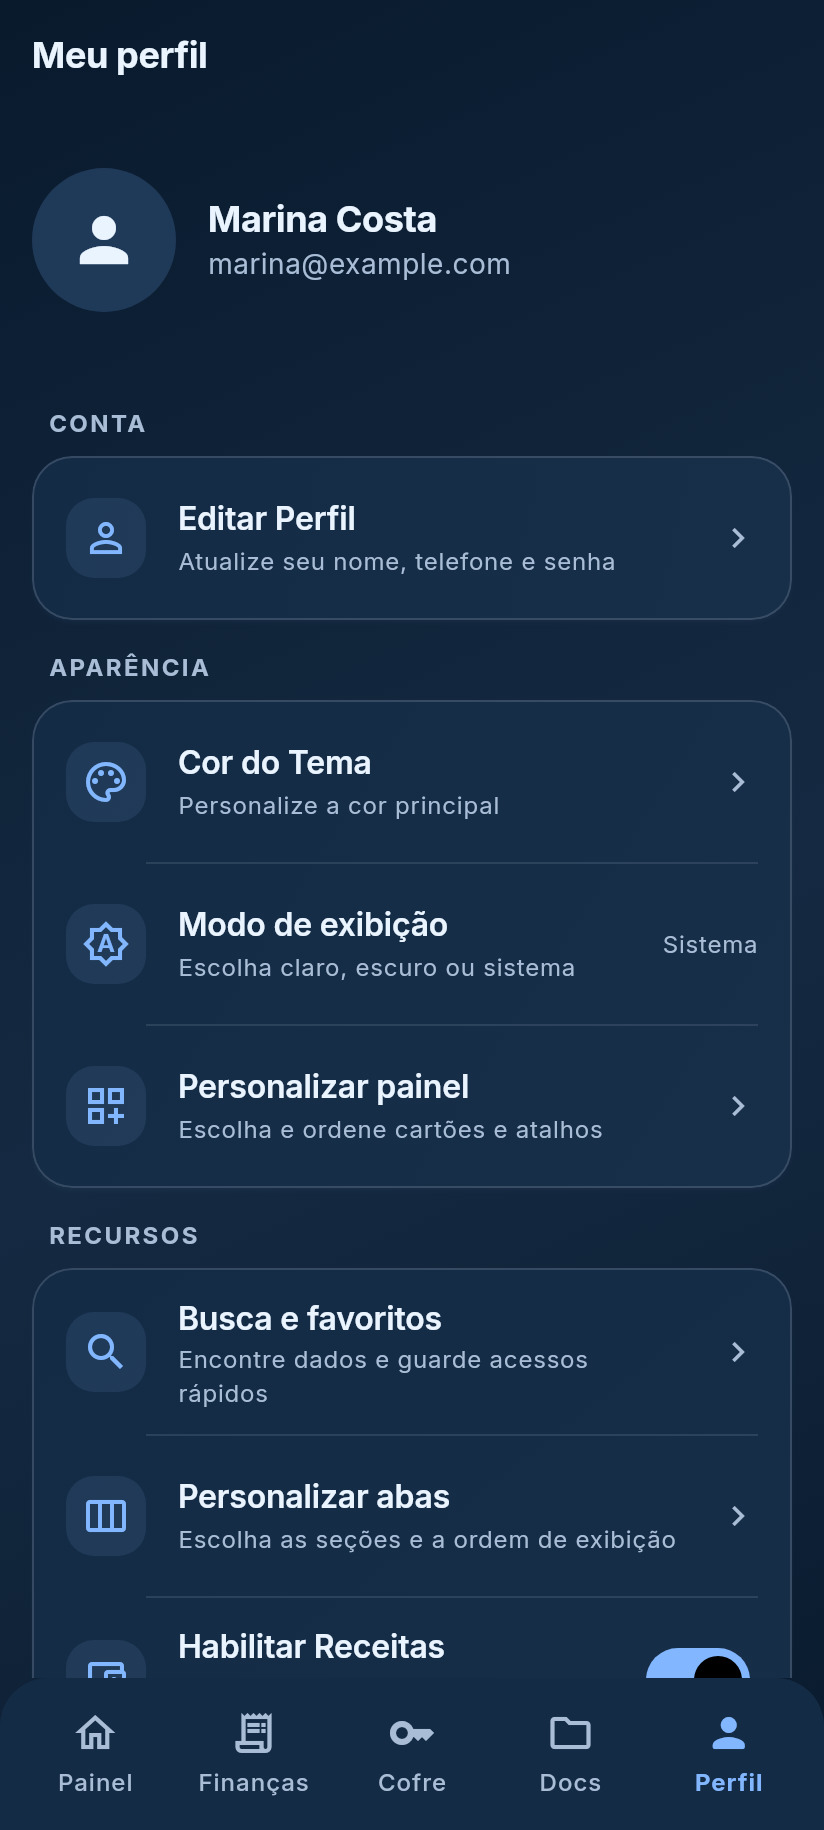
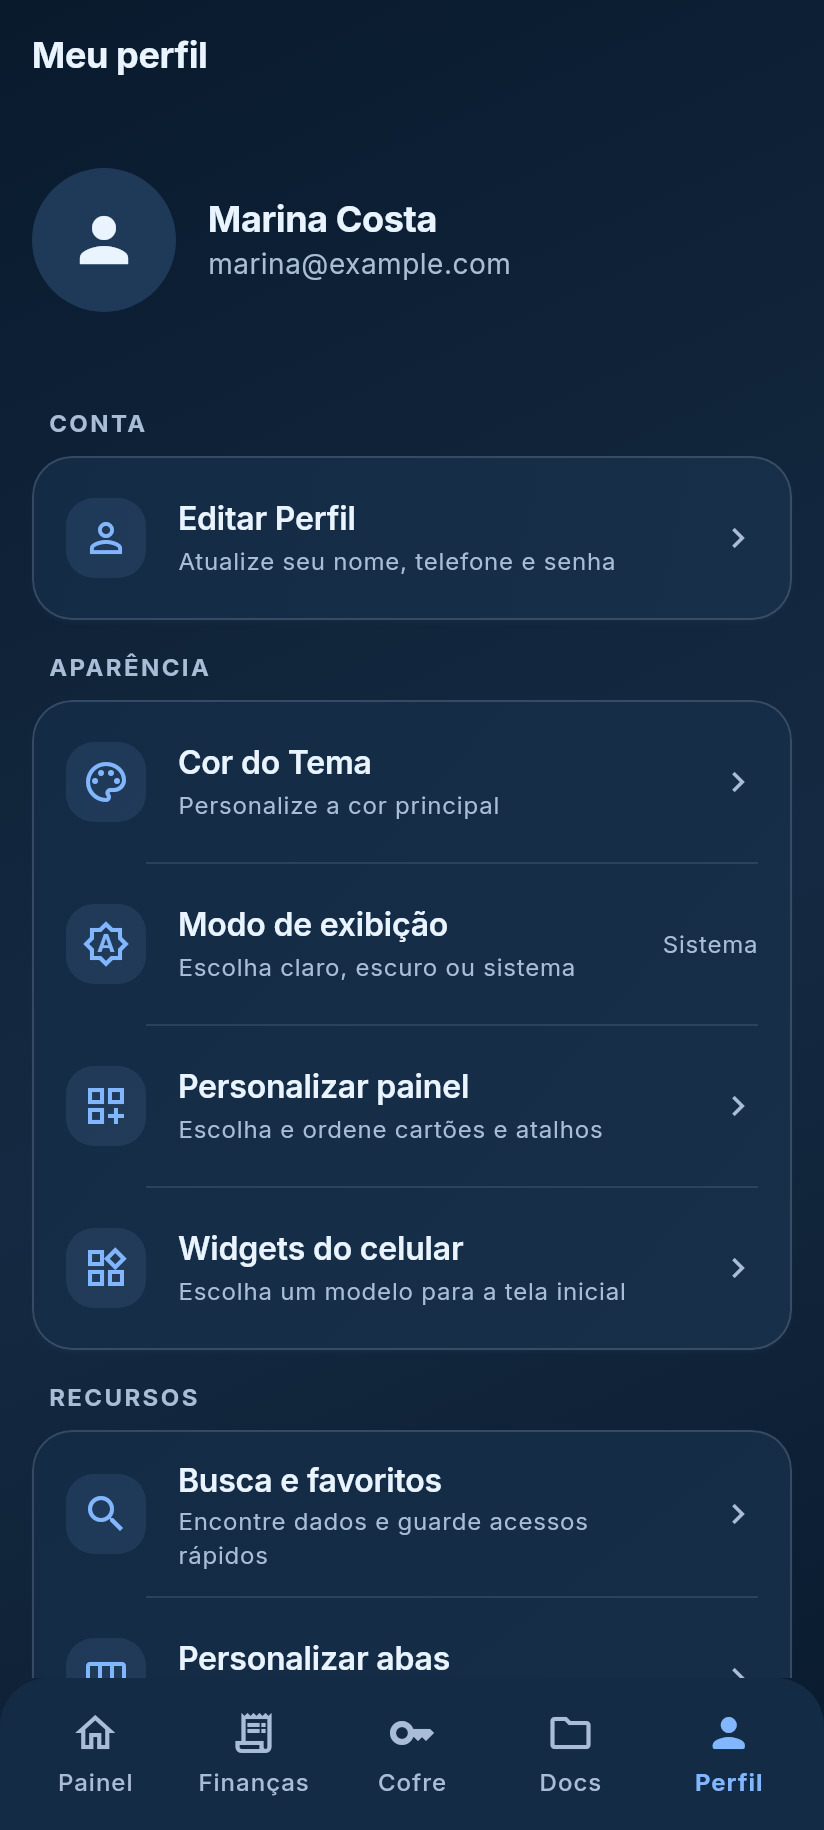
docs: showcase themed Android widgets and offline summaries

diff --git a/test/screenshots/readme_screenshots_test.dart b/test/screenshots/readme_screenshots_test.dart
@@ -29,6 +29,7 @@ import 'package:key_budget/features/goals/model/savings_goal.dart';
 import 'package:key_budget/features/goals/repository/savings_goal_repository.dart';
 import 'package:key_budget/features/goals/view/savings_goals_screen.dart';
 import 'package:key_budget/features/user/view/user_screen.dart';
+import 'package:key_budget/features/user/view/home_widgets_screen.dart';
 
 import 'demo_data.dart';
 
@@ -88,6 +89,7 @@ void main() {
     'analysis-distribution': (const AnalysisScreen(), AppDestination.dashboard),
     'goals': (const SavingsGoalsScreen(), AppDestination.profile),
     'profile': (const UserScreen(), AppDestination.profile),
+    'home-widgets': (const HomeWidgetsScreen(), AppDestination.profile),
   };
   for (final dark in [false, true]) {
     for (final entry in screens.entries) {

diff --git a/tool/update_widget_images.py b/tool/update_widget_images.py
@@ -1,0 +1,102 @@
+"""Capture actual Android RemoteViews with fictional fixtures for the README.
+
+Run against a disposable emulator: uv run --with pillow python
+  tool/update_widget_images.py --serial emulator-5554
+"""
+
+import argparse
+import os
+import shutil
+import subprocess
+from pathlib import Path
+
+from PIL import Image
+
+ROOT = Path(__file__).resolve().parents[1]
+PACKAGE = "com.vinicius.key_budget"
+
+
+def main():
+    parser = argparse.ArgumentParser(description=__doc__)
+    parser.add_argument(
+        "--serial", required=True, help="Disposable Android emulator serial"
+    )
+    args = parser.parse_args()
+    sdk = Path(os.environ.get("ANDROID_HOME", str(Path.home() / "Android/Sdk")))
+    adb = shutil.which("adb") or str(sdk / "platform-tools/adb")
+    device = [adb, "-s", args.serial]
+    qemu = subprocess.check_output(
+        device + ["shell", "getprop", "ro.kernel.qemu"], text=True
+    ).strip()
+    if qemu != "1":
+        parser.error(
+            "Use a disposable emulator; this command installs the debug application."
+        )
+    subprocess.run(
+        [
+            "./gradlew",
+            ":app:assembleDebug",
+            ":app:assembleDebugAndroidTest",
+            "--max-workers=1",
+        ],
+        cwd=ROOT / "android",
+        check=True,
+    )
+    for apk in ["debug/app-debug.apk", "androidTest/debug/app-debug-androidTest.apk"]:
+        subprocess.run(
+            device + ["install", "-r", str(ROOT / "build/app/outputs/apk" / apk)],
+            check=True,
+        )
+    result = subprocess.check_output(
+        device
+        + [
+            "shell",
+            "am",
+            "instrument",
+            "-w",
+            "-e",
+            "class",
+            f"{PACKAGE}.WidgetRenderingTest",
+            "-e",
+            "captureWidgets",
+            "true",
+            f"{PACKAGE}.test/androidx.test.runner.AndroidJUnitRunner",
+        ],
+        text=True,
+    )
+    print(result)
+    if (
+        "OK (" not in result
+        or "FAILURES" in result
+        or "INSTRUMENTATION_FAILED" in result
+    ):
+        raise RuntimeError(
+            "Native widget rendering tests failed; no README images were replaced."
+        )
+    output = ROOT / "build/widget-captures"
+    output.mkdir(parents=True, exist_ok=True)
+    for mode in ["light", "dark"]:
+        source = output / f"widgets-{mode}.png"
+        source.write_bytes(
+            subprocess.check_output(
+                device
+                + [
+                    "exec-out",
+                    "run-as",
+                    PACKAGE,
+                    "cat",
+                    f"files/widget-captures/widgets-{mode}.png",
+                ]
+            )
+        )
+        with Image.open(source) as capture:
+            capture.convert("RGB").save(
+                ROOT / f"docs/images/widgets-{mode}.jpg",
+                quality=92,
+                optimize=True,
+                subsampling=0,
+            )
+
+
+if __name__ == "__main__":
+    main()

diff --git a/tool/update_readme_images.py b/tool/update_readme_images.py
@@ -21,6 +21,7 @@ NAMES = {
     'profile': 'user',
     'dashboard-charts': 'dashboard-charts',
     'customization': 'customization',
+    'home-widgets': 'home-widgets',
 }
 
 

diff --git a/docs/engineering/widgets.md b/docs/engineering/widgets.md
@@ -8,6 +8,8 @@ Os gráficos de gastos diários e dias da semana usam somente despesas realizada
 
 ## Tela inicial do Android
 
+Em **Perfil → Aparência → Widgets do celular**, conheça os modelos e solicite a inclusão. O Android pede a confirmação final; se o launcher não permitir esse atalho, a tela orienta a inclusão manual.
+
 Toque e segure um espaço vazio na tela inicial → **Widgets → KeyBudget**. Escolha um dos cinco modelos e arraste para adicionar. Para redimensionar, toque e segure o widget já adicionado. O número de células disponível depende do launcher.
 
 | Modelo | Tamanho sugerido | Conteúdo |
@@ -18,18 +20,28 @@ Toque e segure um espaço vazio na tela inicial → **Widgets → KeyBudget**. E
 | Próximos gastos | 3 × 2 | Total cadastrado para os próximos sete dias |
 | Nova despesa | 1 × 1 | Atalho para cadastrar, respeitando autenticação e bloqueio |
 
-Os valores começam ocultos. O olho revela temporariamente; o próximo toque oculta. O Android pode atrasar o alarme de ocultação quando alarmes exatos não estão disponíveis. Dados de outra conta, de um dia anterior ou de sessão encerrada nunca são revelados pela política de exibição. Ao sair, o conteúdo salvo é limpo; gravações e trocas de sessão são serializadas.
+Os valores começam ocultos. O olho revela temporariamente; o próximo toque oculta. O Android pode atrasar o alarme de ocultação quando alarmes exatos não estão disponíveis. Dados de outra conta ou de sessão encerrada nunca são revelados pela política de exibição. Ao sair, o conteúdo salvo é limpo; gravações e trocas de sessão são serializadas.
 
-Os widgets acompanham o modo claro/escuro do sistema. São atualizados pelos lançamentos carregados no aplicativo e solicitam atualização de apresentação periodicamente; não fazem consultas ao Firebase em segundo plano. Se a fotografia dos dados estiver desatualizada, mostram **Atualize no app**. Os modelos nativos desta implementação são para Android.
+Os widgets acompanham a cor e o modo de exibição do perfil (claro, escuro ou sistema). Duas paletas opacas são calculadas com as regras de contraste do aplicativo e persistidas junto à sessão; cada texto tem contraste mínimo de 4,5:1. Trocar a cor atualiza todos os modelos instalados, sem substituir os dados financeiros. Eventos de perfil repetidos não provocam atualizações redundantes; falhas podem ser repetidas na próxima sincronização. Ao sair, a aparência salva também é limpa.
 
-A implementação conserva o receiver original para preservar widgets já instalados. Os demais compartilham renderização e política de privacidade, com metadados e layouts próprios. Referência: [layouts flexíveis de widgets Android](https://developer.android.com/develop/ui/views/appwidgets/layouts).
+No modo sistema, Android 12 ou superior reaplica as cores claro/escuro automaticamente; versões anteriores aplicam o modo atual na próxima atualização do widget. No Android 15 ou superior, também publicamos prévias com o tema no seletor, sujeitas à cota de atualização do launcher; versões anteriores usam a prévia estática. Os fundos são formas nativas com cor sólida, preservando os cantos transparentes em todas as versões suportadas.
+
+A sincronização dos lançamentos salva um resumo por dia (valores em centavos e contagem), sem nomes, descrições ou IDs de despesas. Isso acontece independentemente de abrir o painel e inclui edições, exclusões e lançamentos recebidos pelo app. Filtros e pesquisas não alteram o resumo. Um cache vazio ainda não confirmado pelo servidor e falhas de conexão não apagam o último conjunto válido.
+
+O Android recalcula o mês, o saldo e os próximos sete dias usando esses dados persistidos, inclusive na virada do dia, mês e ano. O widget continua funcionando com o aplicativo fechado, sem exigir uma abertura diária. Se o app não sincronizou hoje, a legenda informa **Dados do app · dd/MM**. As atualizações periódicas dependem do agendamento do Android; tocar no olho também recalcula os valores. Não há consultas ao Firebase em segundo plano: alterações feitas em outro aparelho e recorrências ainda não geradas dependem da próxima sincronização do app. Sem dados válidos ou com um resumo de versão antiga, **Atualize no app** orienta a sincronização inicial. Os modelos nativos desta implementação são para Android.
+
+A implementação conserva o receiver original para preservar widgets já instalados. Os demais compartilham renderização e política de privacidade, com metadados e layouts próprios. Referências: [layouts flexíveis de widgets Android](https://developer.android.com/develop/ui/views/appwidgets/layouts), [RemoteViews](https://developer.android.com/reference/android/widget/RemoteViews) e [prévias de widgets](https://developer.android.com/reference/android/appwidget/AppWidgetManager#setWidgetPreview(android.content.ComponentName,int,android.widget.RemoteViews)).
 
 ## Verificação
 
 ```bash
-flutter test test/core/services/home_widget_snapshot_test.dart test/features/dashboard
+flutter test test/features/expenses/expense_widget_sync_test.dart test/core/services/home_widget_appearance_test.dart test/core/services/home_widget_snapshot_test.dart test/features/user/home_widgets_screen_test.dart test/features/dashboard
 cd android
 ./gradlew :app:testDebugUnitTest
+# Com emulador Android conectado:
+./gradlew :app:connectedDebugAndroidTest
 ```
 
 Os testes cobrem precisão monetária, datas, troca de conta, logout, todos os receivers, validade da revelação, migração das preferências, tamanhos salvos e gráficos com texto a 200% em 320 px.
+
+Os testes nativos aplicam as RemoteViews reais dos cinco modelos em duas cores e dois modos, verificando transparência dos cantos, cores, valores e sessão encerrada com fonte ampliada. No Android 15+, também verificam a prévia temática antes da primeira inclusão e garantem que ela não revele valores. As capturas são produzidas por esse mesmo renderer; consulte [como regenerar as imagens](../images/README.md).

diff --git a/docs/images/README.md b/docs/images/README.md
@@ -1,6 +1,6 @@
 # Capturas do KeyBudget
 
-As imagens são renderizadas pelos widgets reais da aplicação com dados fictícios, sem autenticação ou contas reais. São 22 capturas, em temas claro e escuro, incluindo painel, lançamentos, cofres, análises, metas, perfil e personalização.
+As imagens são renderizadas pelos widgets reais da aplicação com dados fictícios, sem autenticação ou contas reais. São 24 capturas do aplicativo, em temas claro e escuro, incluindo painel, lançamentos, cofres, análises, metas, perfil, personalização e seleção de widgets.
 
 ## Regenerar
 
@@ -19,3 +19,15 @@ Se necessário, defina `FLUTTER_BIN` com o caminho do executável Flutter. O scr
 - O teste sem `CAPTURE_README=1` valida as telas sem gravar arquivos.
 
 Não use contas, documentos ou credenciais reais para produzir imagens públicas.
+
+## Widgets Android
+
+`widgets-light.jpg` e `widgets-dark.jpg` mostram os cinco layouts nativos reais com dados fictícios. A galeria é renderizada pelo teste instrumentado `WidgetRenderingTest`, usando as paletas de produção; não depende de login nem lê os dados da conta.
+
+Com um **emulador descartável** iniciado (o comando instala a versão debug):
+
+```bash
+uv run --with pillow python tool/update_widget_images.py --serial emulator-5554
+```
+
+As capturas PNG ficam em `build/widget-captures/`; somente os JPEGs da documentação são versionados. As paletas de teste são verificadas por `home_widget_appearance_test.dart`. Se as regras de cores mudarem, regenere a fixture com `UPDATE_WIDGET_PALETTES=1 flutter test test/core/services/home_widget_appearance_test.dart` antes de capturar novamente.

diff --git a/README.md b/README.md
@@ -84,6 +84,29 @@ Capturas da interface real, com dados fictícios. Em cada par, **tema claro à e
 
 </details>
 
+## Widgets no Android
+
+Adicione pelo **Perfil → Aparência → Widgets do celular** ou pelo seletor de widgets do Android.
+Os cinco modelos acompanham a **cor e o modo de exibição do aplicativo**, com valores ocultos por padrão.
+Usam os lançamentos salvos e recalculam os totais na virada do dia, mesmo com o app fechado; a legenda indica a data dos dados quando necessário.
+
+| Widget | Tamanho sugerido |
+| --- | --- |
+| Gastos compactos | 3 × 1 |
+| Gastos do mês | 2 × 2 |
+| Resumo financeiro | 4 × 3 |
+| Próximos gastos | 3 × 2 |
+| Nova despesa | 1 × 1 |
+
+Renderização real dos widgets no Android, com dados fictícios e tema violeta.
+Os tamanhos podem ser ajustados conforme a tela inicial do celular.
+Veja também a seleção no aplicativo: [claro](docs/images/home-widgets-light.jpg) · [escuro](docs/images/home-widgets-dark.jpg).
+
+<p align="center">
+  <a href="docs/images/widgets-light.jpg"><img src="docs/images/widgets-light.jpg" width="38%" alt="Cinco widgets Android com gastos, saldo, próximos pagamentos e nova despesa, em violeta claro" /></a>
+  <a href="docs/images/widgets-dark.jpg"><img src="docs/images/widgets-dark.jpg" width="38%" alt="Os mesmos cinco widgets acompanhando o tema violeta escuro" /></a>
+</p>
+
 ## Tecnologias
 
 | Base | Uso |
